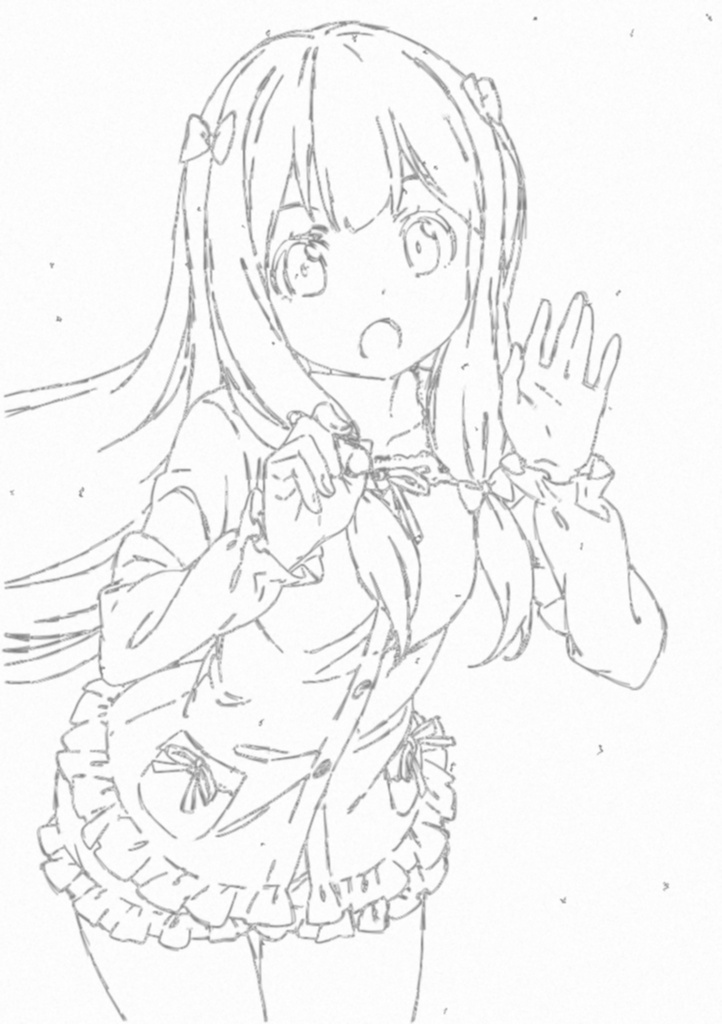
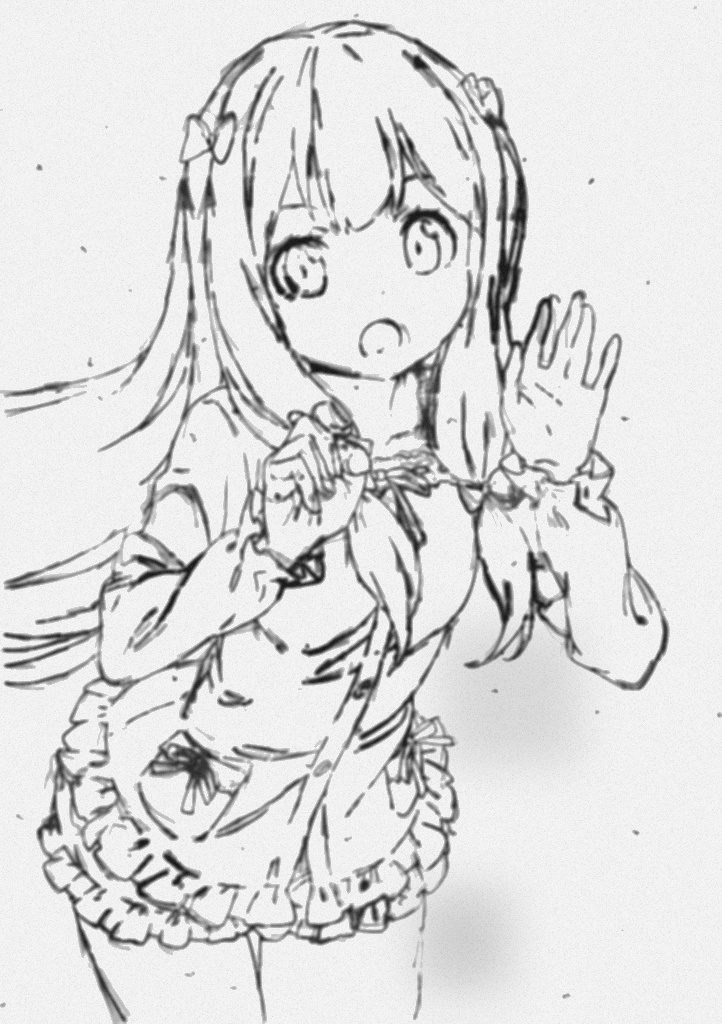
update

Changed region(s): [[0.0, 0.0, 0.9446, 1.0], [0.0, 0.375, 0.1219, 0.4062]]

diff --git a/2rough.py b/2rough.py
@@ -4,35 +4,54 @@ import numpy as np
 import random
 np.set_printoptions(threshold=np.inf)
 
-def aff(img):
+def aff(img, local=True):
     rows, cols = img.shape
     img_out = img / 255.0
-    a = random.randint(1, 3)
-    for i in range(a):
-        img_cp = 1.0 - img / 255.0
-        # affine transformation
-        rad = np.pi * random.uniform(-0.03, 0.03)
-        if random.random() > 0.7:
-            move_x = random.uniform(-1.5,1.5)
-        else:
-            move_x = 0
-        if random.random() > 0.7:
-            move_y = random.uniform(-1.5,1.5)
-        else:
-            move_y = 0
-        afn_M = np.float32([[np.cos(rad), -1 * np.sin(rad), move_x],
-                            [np.sin(rad), np.cos(rad), move_y]])
-        img_cp = cv2.warpAffine(img_cp, afn_M, (cols, rows), flags=cv2.INTER_LINEAR)
-        img_out = img_out - img_cp
+    if local:
+        a = random.randint(1, 3)
+        for i in range(a):
+            img_cp = 1.0 - img / 255.0
+            # affine transformation
+            rad = np.pi * random.uniform(-0.03, 0.03)
+            if random.random() > 0.7:
+                move_x = random.uniform(-1.5,1.5)
+            else:
+                move_x = 0
+            if random.random() > 0.7:
+                move_y = random.uniform(-1.5,1.5)
+            else:
+                move_y = 0
+            afn_M = np.float32([[np.cos(rad), -1 * np.sin(rad), move_x],
+                                [np.sin(rad), np.cos(rad), move_y]])
+            img_cp = cv2.warpAffine(img_cp, afn_M, (cols, rows), flags=cv2.INTER_LINEAR)
+            img_out = np.where(img_out < 0.1, img_out, img_out - img_cp / random.uniform(1,2))
+    else:
+        for i in range(random.randint(1,3)):
+            if random.random() < 0.6:
+                img_cp = 1.0 - img / 255.0
+                # affine transformation
+                rad = np.pi * random.uniform(-0.08, 0.08)
+                if random.random() > 0.3:
+                    move_x = random.uniform(-4.5, 4.5)
+                else:
+                    move_x = 0
+                if random.random() > 0.3:
+                    move_y = random.uniform(-4.5, 4.5)
+                else:
+                    move_y = 0
+                afn_M = np.float32([[np.cos(rad), -1 * np.sin(rad), move_x],
+                                    [np.sin(rad), np.cos(rad), move_y]])
+                img_cp = cv2.warpAffine(img_cp, afn_M, (cols, rows), flags=cv2.INTER_LINEAR)
+                img_out = np.where(img_out < 0.3, img_out, img_out - img_cp / random.uniform(1, 3))
     img_out = np.where(img_out < 0, -img_out, img_out)
-    return img_out
-
+    return (img_out * 255).astype(np.uint8)
 
 def addPointNoise(img):
     rows, cols = img.shape
     row = random.randint(0, rows - 1)
     col = random.randint(0, cols - 1)
     for j in range(random.randint(4, 25)):
+        #print(row, col)
         img[row, col] = 0
         patern = random.randint(1, 8)
         if patern == 1:
@@ -56,7 +75,6 @@ def addPointNoise(img):
             row = max(row - 1, 0)
             col = min(col + 1, cols - 1)
 
-
 def addGaussianNoise(img):
     rows, cols = img.shape
     mean = 0
@@ -64,12 +82,41 @@ def addGaussianNoise(img):
     gauss = np.random.normal(mean, sigma, (rows, cols))
     gauss = gauss.reshape(rows, cols)
     gauss = np.where(gauss > 0, gauss, -gauss).astype(np.uint8)
-    noisy = np.where(img < 10, img + gauss, img - gauss)
+    noisy = np.where(img < 30, img + gauss, img - gauss)
     return noisy
 
+def dilation(img, glob=False):
+    n = random.randint(1,2)
+    if (random.random() < 0.05) and not glob:
+        n = 3
+    neibor = np.ones((n,n), np.uint8)
+    img = cv2.dilate(img, neibor, iterations = 1)
+    return img
+
+def erosion(img):
+    n = random.randint(1,3)
+    neibor = np.ones((n,n), np.uint8)
+    img = cv2.erode(img, neibor, iterations = 1)
+    return img
+
+def addDirt(img):
+    rows, cols = img.shape
+    Dirt = np.ones(img.shape, np.uint8) * 255
+    change = 0
+    for i in range(random.randint(0,5)):
+        change = 1
+        y = random.randint(0,rows-1)
+        x = random.randint(0,cols-1)
+        dy = random.randint(rows//30,rows//5)
+        dx = random.randint(cols//30,cols//5)
+        Dirt[y:min(y+dy,rows-1), x:min(x+dx,cols-1)] =  random.randint(200,230)
+    k_size = random.randint(70,80) * 2 + 1
+    Dirt = cv2.GaussianBlur(Dirt, (k_size, k_size), 0)
+    if change:
+        img = np.where(img < 220, img, Dirt)
+    return img
 
 
-# input
 img = cv2.imread('line.jpg', 0)
 rows, cols = img.shape
 zero = np.zeros(img.shape)
@@ -86,25 +133,83 @@ for j in range(j_n):
     zero[(i_n-1)*itv:rows, j*itv:(j+1)*itv] = aff(img[(i_n-1)*itv:rows, j*itv:(j+1)*itv])
 zero[(i_n-1)*itv:rows, (j_n-1)*itv:cols] = aff(img[(i_n-1)*itv:rows, (j_n-1)*itv:cols])
 
+# apply larger affine transformation
+itv = random.randint(35,60) #interval
+i_n = rows//itv
+j_n = cols//itv
+for i in range(i_n-1):
+    for j in range(j_n-1):
+        zero[i*itv:(i+1)*itv, j*itv:(j+1)*itv] = aff(zero[i*itv:(i+1)*itv, j*itv:(j+1)*itv], local=False)
+    zero[i*itv:(i+1)*itv, (j_n-1)*itv:cols] = aff(zero[i*itv:(i+1)*itv, (j_n-1)*itv:cols], local=False)
+for j in range(j_n):
+    zero[(i_n-1)*itv:rows, j*itv:(j+1)*itv] = aff(zero[(i_n-1)*itv:rows, j*itv:(j+1)*itv], local=False)
+zero[(i_n-1)*itv:rows, (j_n-1)*itv:cols] = aff(zero[(i_n-1)*itv:rows, (j_n-1)*itv:cols], local=False)
+#cv2.imshow('zero', zero/255)
+#cv2.waitKey(0)
+
+# dilation & erosion
+itv = random.randint(55,80) #interval
+i_n = rows//itv
+j_n = cols//itv
+for i in range(i_n-1):
+    for j in range(j_n-1):
+        if random.random() < 0.2:
+            zero[i*itv:(i+1)*itv, j*itv:(j+1)*itv] = dilation(zero[i*itv:(i+1)*itv, j*itv:(j+1)*itv])
+        elif random.random() > 0.66:
+            zero[i*itv:(i+1)*itv, j*itv:(j+1)*itv] = erosion(zero[i*itv:(i+1)*itv, j*itv:(j+1)*itv])
+    if random.random() < 0.2:
+        zero[i*itv:(i+1)*itv, (j_n-1)*itv:cols] = dilation(zero[i*itv:(i+1)*itv, (j_n-1)*itv:cols])
+    elif random.random() > 0.66:
+        zero[i*itv:(i+1)*itv, (j_n-1)*itv:cols] = erosion(zero[i*itv:(i+1)*itv, (j_n-1)*itv:cols])
+for j in range(j_n):
+    if random.random() < 0.2:
+        zero[(i_n-1)*itv:rows, j*itv:(j+1)*itv] = dilation(zero[(i_n-1)*itv:rows, j*itv:(j+1)*itv])
+    elif random.random() > 0.66:
+        zero[(i_n-1)*itv:rows, j*itv:(j+1)*itv] = erosion(zero[(i_n-1)*itv:rows, j*itv:(j+1)*itv])
+if random.random() < 0.2:
+    zero[(i_n-1)*itv:rows, (j_n-1)*itv:cols] = dilation(zero[(i_n-1)*itv:rows, (j_n-1)*itv:cols])
+elif random.random() > 0.66:
+    zero[(i_n-1)*itv:rows, (j_n-1)*itv:cols] = erosion(zero[(i_n-1)*itv:rows, (j_n-1)*itv:cols])
+#cv2.imshow('zero', zero/255)
+#cv2.waitKey(0)
+
+if random.random() < 0.3:
+    # dilation
+    zero = dilation(zero, glob=True)
+elif random.random() > 0.8:
+    # erosion
+    zero = erosion(zero)
+#cv2.imshow('erosion', zero/255)
+#cv2.waitKey(0)
+
 # add point noise
 for i in range(random.randint(30,50)):
     addPointNoise(zero)
 
 # reduce contrast
-min_table = 125
+min_table = random.randint(0,150)
 max_table = 255
 diff_table = max_table - min_table
 look_up_table = np.arange(256, dtype='uint8')
 for i in range(0, 255):
     look_up_table[i] = min_table + i * (diff_table) / 255
-img = cv2.LUT((zero * 255.0).astype(np.uint8), look_up_table)
+img = cv2.LUT(zero.astype(np.uint8), look_up_table)
+
+# blur
+k_size = random.randint(1, 3) * 2 + 1
+blur = cv2.GaussianBlur(img, (k_size, k_size), 0)
+#img = np.where(img < 180, img, blur)
+img = blur
+
+# add dirt
+img = addDirt(img)
+
+# background
+#img = np.where(img < 250, img, random.randint(245,255))
 
 # add Gaussian Noise
 img = addGaussianNoise(img)
 
-# blur
-k_size = 3#random.randint(0, 1) * 2 + 1
-out = cv2.GaussianBlur(img, (k_size, k_size), 0)
 
-# output
-cv2.imwrite('img_out.jpg', out)
+
+cv2.imwrite('img_out.jpg', img)
